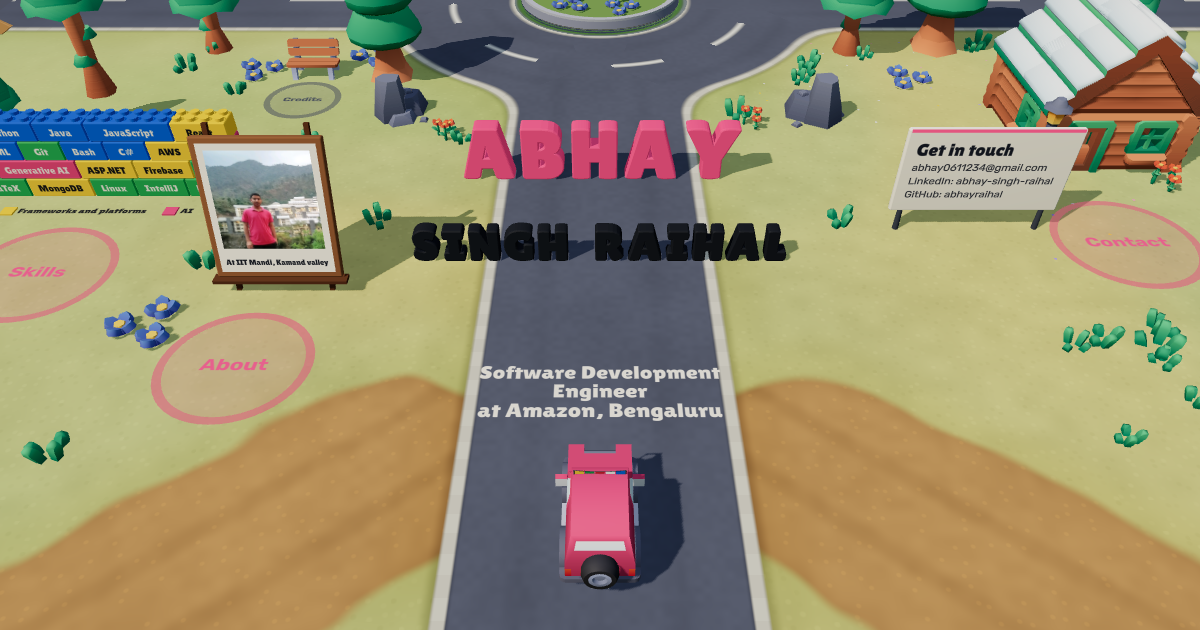
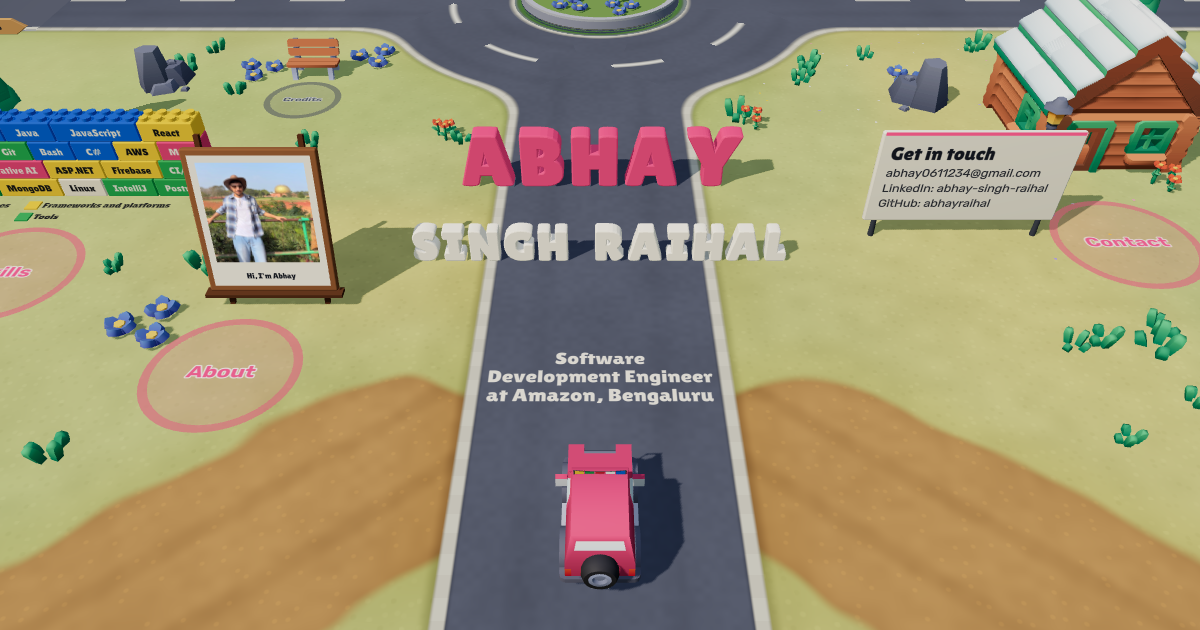
New about-me photo; campus easel keeps the IIT Mandi photo; copy fixes from the writing check

diff --git a/src/data/profile.ts b/src/data/profile.ts
@@ -64,7 +64,9 @@ export const profile = {
   location: 'Bengaluru, India',
   roleLine: 'Software Development Engineer at Amazon, Bengaluru',
   teamLine: 'Payments and rewards points',
-  photo: { src: `${BASE}images/abhay-iit-mandi.jpg`, alt: 'Abhay standing in front of the IIT Mandi campus, with forested hills behind him' },
+  photo: { src: `${BASE}images/abhay.jpg`, alt: 'Abhay in a hat and sunglasses, leaning on a green railing, with a golden domed building behind him' },
+  // Shown on the easel in the IIT Mandi zone, where it was taken.
+  campusPhoto: { src: `${BASE}images/abhay-iit-mandi.jpg`, alt: 'Abhay standing in front of the IIT Mandi campus, with forested hills behind him' },
   avatar: `${BASE}images/abhay-avatar.jpg`,
   highlights: ['Codeforces Expert, max rating 1719', 'ICPR 2024 co-author', '2000+ problems solved'],
 };
@@ -170,7 +172,7 @@ export const panels: Record<PanelId, Panel> = {
       { label: 'Languages', items: ['C/C++', 'Python', 'Java', 'JavaScript', 'C#', 'SQL', 'Bash', 'HTML'] },
       { label: 'Frameworks and platforms', items: ['React', 'Spring', 'Node.js', 'ASP.NET', 'AWS', 'DynamoDB', 'EMR + Spark', 'Bedrock AgentCore', 'Firebase', 'MongoDB', 'MySQL'] },
       { label: 'AI', items: ['Agentic AI', 'MCP', 'Generative AI', 'PyTorch'] },
-      { label: 'Tools', items: ['Git', 'Linux', 'CI/CD', 'IntelliJ', 'Visual Studio', 'Postman', 'Unity', 'LaTeX'] },
+      { label: 'Tools', items: ['Git', 'Linux (Ubuntu)', 'Windows', 'CI/CD', 'IntelliJ', 'Visual Studio', 'Sublime Text', 'Postman', 'Unity', 'LaTeX'] },
       { label: 'Coursework', items: coursework },
     ],
   },
@@ -212,7 +214,7 @@ export const panels: Record<PanelId, Panel> = {
     title: 'Amazon',
     kicker: 'Software Development Engineer · Bengaluru',
     meta: ['May 2025 – now', 'Java', 'Python', 'AWS', 'CI/CD'],
-    body: ['I work on the team behind paying with rewards points on Amazon. Each of the six exhibits around this plaza is one piece of that work.'],
+    body: ['I work on the team behind paying with rewards points on Amazon. Each of the six exhibits on the Amazon plaza is one piece of that work.'],
     bullets: [
       'Rewards points as a payment option for Prime Video in Japan, the US and Brazil.',
       'An AI oncall agent that saves about 30 minutes of log-digging per ticket.',
@@ -434,7 +436,7 @@ export const panels: Record<PanelId, Panel> = {
     kicker: 'ICPR 2024 · co-author',
     body: ['A distributed convolutional attention module (DCAM), used only during training, improves multi-class anomaly detection by 3.92% over the baseline at the same inference latency.'],
     bullets: [
-      'Published in the ICPR 2024 proceedings, Springer LNCS (Pattern Recognition), pp. 254–270.',
+      'Published in the proceedings of the International Conference on Pattern Recognition (ICPR 2024), Springer Lecture Notes in Computer Science, pp. 254–270.',
       `Authors: ${paper.authors.join(', ')}.`,
     ],
     links: [
@@ -459,7 +461,7 @@ export const panels: Record<PanelId, Panel> = {
     bullets: [
       'Led rides for the Mountain Biking Club (MTB) at IIT Mandi.',
       'Led a Design Practicum project building assistive wearable tech to help visually impaired people get around.',
-      'Ran community surveys for the ISTP project, collecting and analysing data on local problems.',
+      'Ran community surveys for an Interdisciplinary Socio-Technical Practicum (ISTP) project, collecting and analysing data on local problems.',
     ],
     related: ['education'],
   },

diff --git a/src/Experience.tsx b/src/Experience.tsx
@@ -40,7 +40,7 @@ const ZONE_MODULES = [
 
 // Start every model and picture download at once instead of zone by zone as each one suspends.
 for (const name of Object.keys(MODELS) as ModelName[]) useGLTF.preload(modelUrl(name), false);
-const images = new Set([profile.photo.src, ...projects.flatMap((p) => (p.image ? [p.image] : [])), ...Object.values(panels).flatMap((p) => (p.image ? [p.image.src] : []))]);
+const images = new Set([profile.photo.src, profile.campusPhoto.src, ...projects.flatMap((p) => (p.image ? [p.image] : [])), ...Object.values(panels).flatMap((p) => (p.image ? [p.image.src] : []))]);
 for (const url of images) useTexture.preload(url);
 
 const coarse = typeof window !== 'undefined' && !!window.matchMedia?.('(pointer: coarse)').matches;

diff --git a/src/zones/campus/Easel.tsx b/src/zones/campus/Easel.tsx
@@ -73,7 +73,7 @@ export function Easel() {
       </mesh>
       <group position={onFrame(0, 0, 0)} rotation={[TILT, 0, 0]}>
         <NightWash width={FRAME_W - 0.1} height={FRAME_H - 0.1} position={[0, FRAME_H / 2, FRAME_D / 2 + 0.002]} />
-        <ImagePlane url={profile.photo.src} width={PHOTO} height={PHOTO} position={[0, FRAME_H - BORDER - PHOTO / 2, FRAME_D / 2 + 0.005]} />
+        <ImagePlane url={profile.campusPhoto.src} width={PHOTO} height={PHOTO} position={[0, FRAME_H - BORDER - PHOTO / 2, FRAME_D / 2 + 0.005]} />
         <Label size={0.34} maxWidth={PHOTO - 0.1} textAlign="center" lineHeight={1.15} color={COLORS.ink} position={[0, BORDER + STRIP / 2 - 0.05, FRAME_D / 2 + 0.005]}>
           {CAPTION}
         </Label>

diff --git a/src/zones/hub/PhotoBoard.tsx b/src/zones/hub/PhotoBoard.tsx
@@ -24,7 +24,7 @@ const OUTER_H = MAT_H + FRAME * 2;
 const LIFT = 0.62; // bottom of the frame above the ground
 const TILT = 0.24; // radians the easel leans back, so the photo faces the raised camera more squarely
 const LEG_BELOW = LIFT / Math.cos(TILT) + 0.05; // leg length below the frame, down to the ground
-const CAPTION = 'At IIT Mandi, Kamand valley';
+const CAPTION = "Hi, I'm Abhay";
 
 // The back leg runs from a point behind the frame, 80% of the way up, to the ground 1.6 m behind.
 const BACK_LEG = (() => {
